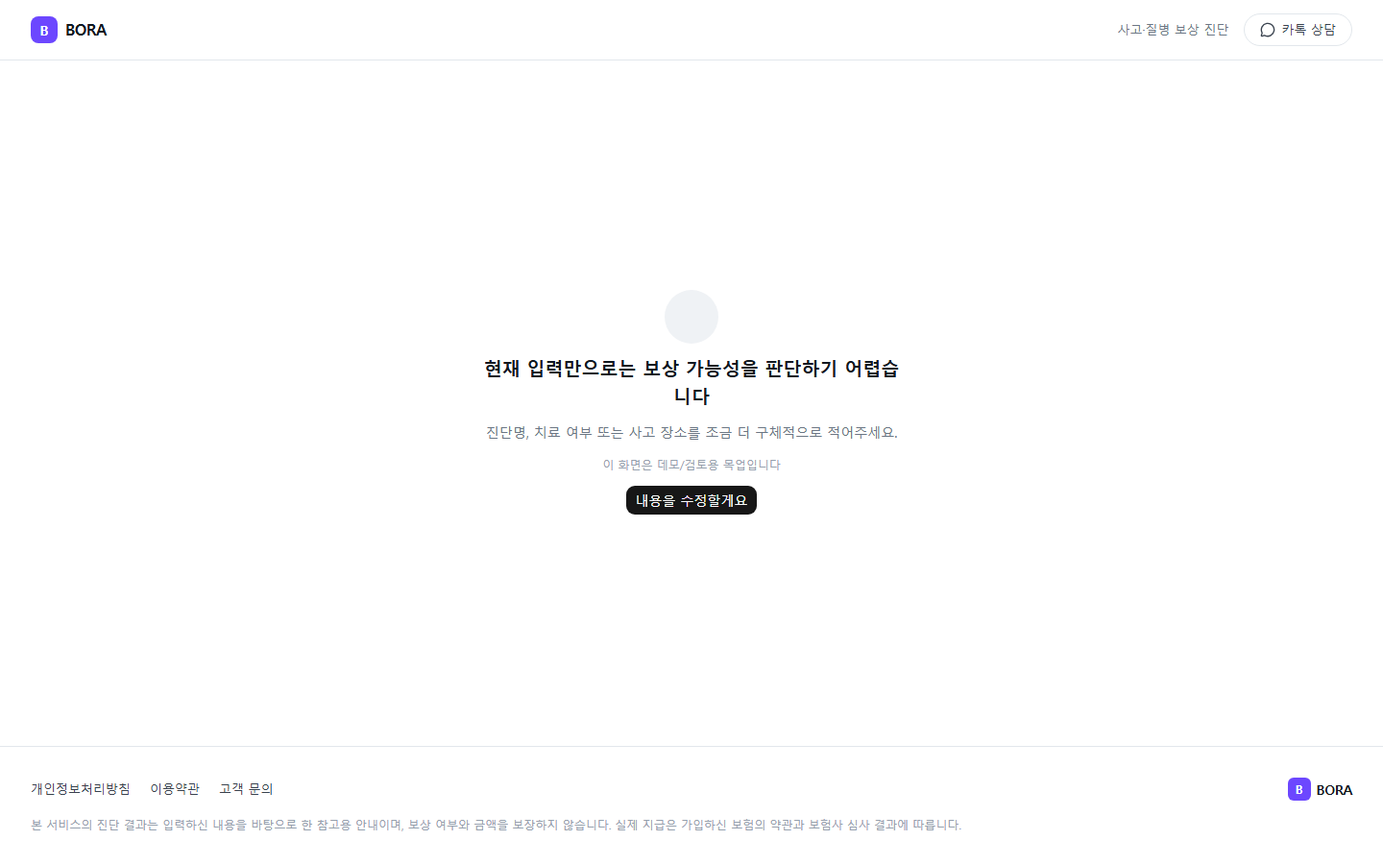
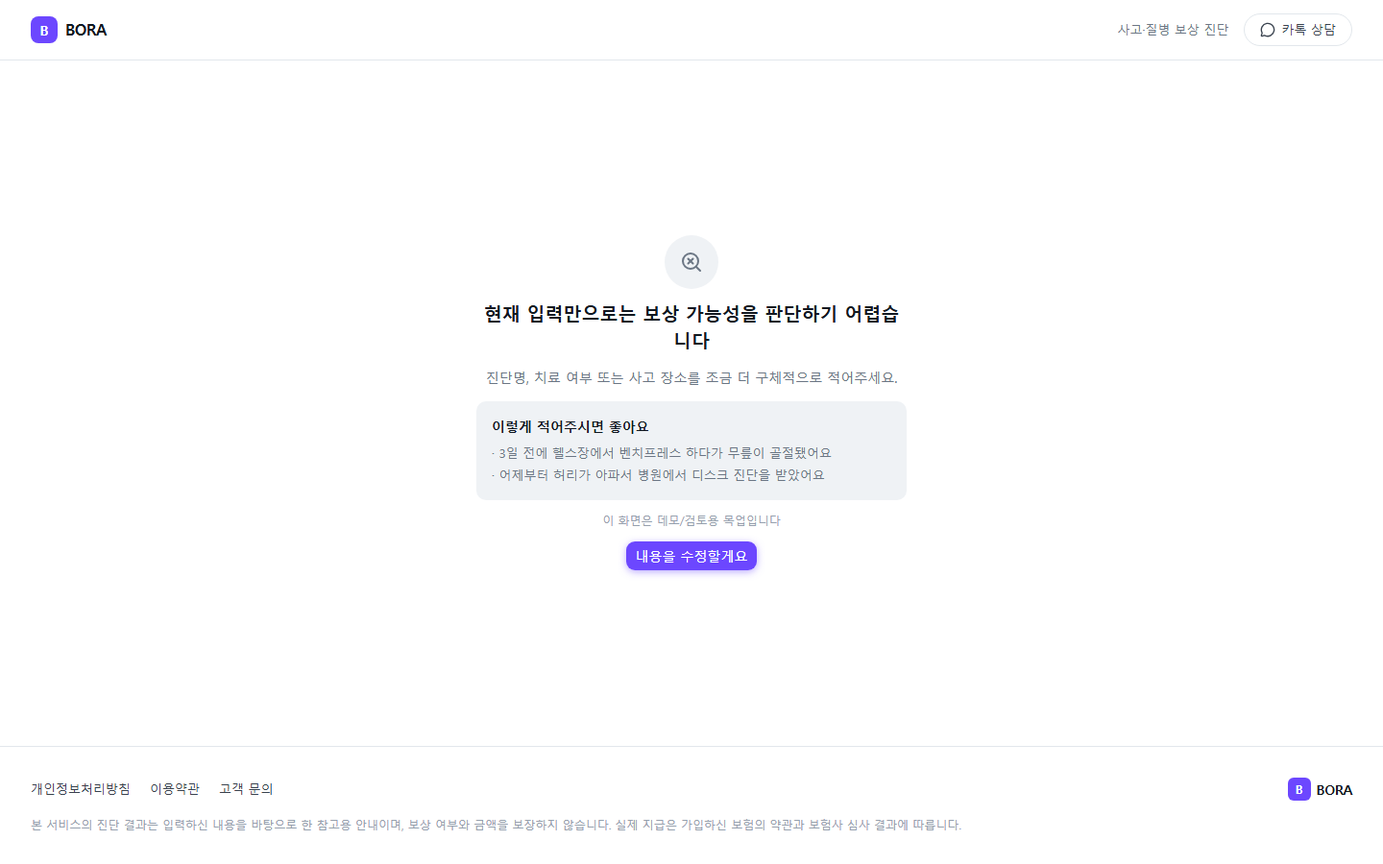
docs(SPEC-B2C-DIAGNOSIS-001): D1/D2 두 번째 원격 결함 수정 재검증 결과를 progress.md에 기록
comparison.md를 전면 재작성하고 D2에서 변경된 4개 화면(01-B/01-C/01-D/
01-E, Desktop+Mobile 8장)의 스크린샷을 재캡처했다 — 이번 라운드에서
변경하지 않은 화면은 재캡처하지 않고 이전 판정을 인용 형태로만 유지했다.

progress.md §E.2에 append-only로 "D1/D2 — 외부 리뷰 후속 블로킹 결함 2건
원격 수정" 절을 추가하고, §E.3의 기존 audit-ready 항목을 REVOKED로
표시(취소선, 삭제하지 않음)한 뒤 새 audit-ready 항목으로 대체했다.

🗿 MoAI

Changed region(s): [[0.3438, 0.3422, 0.6562, 0.6844]]

diff --git a/.moai/reports/visual-check/SPEC-B2C-DIAGNOSIS-001/comparison.md b/.moai/reports/visual-check/SPEC-B2C-DIAGNOSIS-001/comparison.md
@@ -1,65 +1,89 @@
-# 시각 정합성 비교 — SPEC-B2C-DIAGNOSIS-001 (M-fix 재검증)
+# 시각 정합성 비교 — SPEC-B2C-DIAGNOSIS-001 (D2 재검증, second remediation round)
 
-**이 문서는 이전 버전을 완전히 대체한다.** 이전 버전은 외부 코드 리뷰에서
-실제 구현과 불일치하는 것으로 확인되어 폐기되었다 — 특히 "원본 사례 칩을
-대표 예시로 축소한 것은 design.md 범위 내 재량"이라는 판단은 근거 없는
-주장이었다(해당 재량을 허용하는 요구사항·승인 기록이 없음). 이 문서는
-M-fix-1~6 결함 수정 이후 실제 코드 상태를 기준으로 다시 검증한 결과다.
+**이 문서는 이전 버전(M-fix 재검증)을 완전히 대체한다.** 이전 버전 작성
+이후 외부 코드 리뷰에서 01-B/01-C/01-D/01-E 4개 화면이 `design/exports/`의
+실제 캡처와 구조적으로 다르다는 두 번째 블로킹 결함이 발견되었다
+(진행률 바·확인 배지·스켈레톤 카드·아이콘 등 export에 있는 요소가
+구현에는 없었음). 이 문서는 그 결함을 수정한 뒤의 실제 코드 상태를
+기준으로 다시 검증한 결과다. 세 가지 판정만 사용한다 —
+**일치**(export와 구조적으로 동일하게 확인됨) / **허용된 차이**(SPEC 범위·
+요구사항에 근거한 의도된 차이, 근거 명시) / **미해결**(export와 다르며
+아직 해소되지 않음). 구조적으로 확인하지 않은 항목을 "일치"로 표기하지
+않는다.
 
 design.md §16 절차에 따른 수동 비교 기록이다. 자동 픽셀 diff 도구는 도입하지
 않았다(tech.md § 비용 태도, design.md §16) — Playwright로 각 상태를
 `?devStep=`(또는 실제 사용자 플로우)으로 강제 진입해 캡처한 스크린샷과
 `design/exports/`의 대응 PNG를 나란히 놓고 레이아웃 폭 · 색상 토큰 · 텍스트
-일치 여부를 수동으로 리뷰한 결과다.
+· 구조 일치 여부를 수동으로 리뷰한 결과다.
 
 캡처 스크린샷 경로: `.moai/reports/visual-check/SPEC-B2C-DIAGNOSIS-001/screenshots/`
 캡처 절차: `e2e/`에 임시 스크립트(`_visual-capture.spec.ts`)를 만들어
 `pnpm test:e2e -- --spec=_visual-capture`로 실행한 뒤 삭제했다(design.md §16의
-"잠정 절차"이므로 커밋 대상에서 제외 — 회귀 테스트가 아니다).
+"잠정 절차"이므로 커밋 대상에서 제외 — 회귀 테스트가 아니다). 이번 재검증
+범위(D2)는 시각적으로 변경된 4개 화면(01-B/M01-B, 01-C/M01-C, 01-D, 01-E,
+그리고 반응형 재사용인 M01-D/M01-E)만 재캡처했다 — 나머지 화면(01
+입력/01-A2/01-A3/M01 계열)은 이번 라운드에서 코드 변경이 없었으므로
+재캡처하지 않았고 이전 버전의 판정을 그대로 인용한다.
 
-## Desktop (1440x900)
+모든 스크린샷은 `page.screenshot()`(fullPage 미지정 — 뷰포트 스크린샷)으로
+캡처했다. 실제 PNG 픽셀 크기를 확인해 뷰포트 설정과 일치함을 검증했다 —
+Desktop 8개 전부 1440x900, Mobile 8개 전부 390x844(node로 PNG IHDR 청크를
+직접 읽어 확인, 아래 표 캡션 참고).
 
-| 화면 | 구현 캡처 | 디자인 원본 | 레이아웃 폭 | 색상 토큰 | 텍스트 |
-|---|---|---|---|---|---|
-| 01 입력 | `screenshots/01-input.png` | `design/exports/01-보상-진단-질문-입력.png` | **일치** — 헤더·헤드라인·검색+CTA 결합·안내·칩·4카드·푸터 구조와 여백 비율이 원본과 동일 | **일치** — 헤드라인 위 서브헤드·chip 아이콘·카드 아이콘 모두 BORA 퍼플(`bora-accent`). CTA 버튼은 검색어가 비어 있어(`0/200자`) `disabled:opacity-50`로 옅게 보이지만, 이는 캡처 시점에 입력값이 없었기 때문이며 실제 배경색 토큰(`bg-bora-accent`)은 M-fix-3 적용대로 정확하다(01-A2 캡처에서 동일 버튼이 활성 진한 보라로 렌더링됨을 재확인) | 헤드라인 "이거, 보상 받을 수 있나요?"·서브헤드·설명·사용 안내·PII 배너 문구 모두 원본과 일치. "많이 찾는 사례" 칩 6개(교통사고/계단에서 낙상/운동 중 부상/허리 디스크/어깨 회전근개/암 진단) 전부 원본과 정확히 일치(M-fix-1 — 이전 버전의 "대표 예시로 축소" 판단은 근거 없는 주장이었으며 철회함) |
-| 01-A2 동의 | `screenshots/01-A2-consent.png` | `design/exports/01-A2-진단-시작-동의.png` | **일치** — Modal 폭·중앙 정렬 확인. **추가 확인(M-fix-2)**: 배경에 01 화면(검색창에 입력했던 "무릎 골절로 수술을 받았어요"가 그대로 표시됨)이 dim 처리된 채 유지되어 원본과 동일하게 "01 위의 오버레이" 구조를 재현함 — 이전 버전은 배경 없이 빈 화면이었던 결함이 있었으나 해소됨 | **일치** — "동의하고 진단하기" CTA는 체크박스 미선택 상태라 옅은 보라(`disabled:opacity-50`)이지만 색상 자체는 BORA 퍼플. 우측 상단 닫기(X) 버튼 신규 확인(M-fix-2) — 원본과 동일 위치 | 타이틀·본문·체크박스 라벨·CTA 문구 모두 원본과 일치 |
-| 01-A3 동의 상세 | `screenshots/01-A3-consent-detail.png` | (대응 export 없음 — 01-A3 export 파일이 `design/exports/`에 존재하지 않음) | 레이아웃 자체 검증 대상 없음 — 6개 항목 dt/dd 구조로 렌더링됨을 확인 | "확인" 버튼 BORA 퍼플 적용(이번 재검증 중 발견해 추가 수정) | 6개 항목 모두 리터럴 `{}` placeholder 유지 확인(AC-B2CDIAG-025) — 실제 법무 문구를 임의 생성하지 않음 |
-| 01-B 추가 질문 | `screenshots/01-B-questions.png` | `design/exports/01-B-추가-질문.png` | 일치 | 진행률 텍스트·라디오 테두리 일치. "다음"/"결과 보기" CTA에 BORA 퍼플(`variant="diagnosis"`) 적용 완료(오케스트레이터 후속 수정), "이전"은 ghost 유지 | "질문 N/3"·"건너뛰고 결과 보기"·"이전"/"다음" 문구 일치. 질문 문구 자체는 placeholder(design.md §15 각주, 잔여 위험으로 기존 기록됨) |
-| 01-C 진단 중 | `screenshots/01-C-loading.png` | `design/exports/01-C-진단-중.png` | 일치 | 스피너·단계 카드 테두리 일치(이 화면은 애초에 중립 톤이라 색상 결함과 무관) | 3단계 문구·"진행 중"/"대기" 라벨 일치 |
-| 01-D 결과 없음 | `screenshots/01-D-result-none.png` | `design/exports/01-D-결과-없음.png` | 일치 | "내용을 수정할게요" 버튼에 BORA 퍼플 적용 완료(오케스트레이터 후속 수정) | 안내 문구 일치, mock 배지는 REQ-B2CDIAG-024 반영 신규 요소(결함 아님) |
-| 01-E 분석 오류 | `screenshots/01-E-error.png` | `design/exports/01-E-분석-오류.png` | 일치 | 오류 아이콘 배경 destructive 톤 일치. "다시 시도" 버튼에 BORA 퍼플 적용 완료(오케스트레이터 후속 수정), "입력 내용으로 돌아가기"는 outline 유지 | 오류 문구·버튼 문구 일치 |
+## Desktop (1440x900) — 변경된 4개 화면
 
-## Mobile (390x844)
+| 화면 | 구현 캡처 | 디자인 원본 | 판정 | 근거 |
+|---|---|---|---|---|
+| 01-B 추가 질문 | `screenshots/01-B-questions.png` | `design/exports/01-B-추가-질문.png` | **일치** | 녹색 확인 배지("입력 내용을 확인했어요")·질문 N/3 진행률 텍스트(퍼플, bold)+진행 바(퍼플 채움/회색 트랙)+다음 질문 힌트("다음 질문 · X → Y")·중앙 정렬 서브텍스트("정확한 확인을 위해 3가지만 여쭤볼게요")·질문 타이틀(font-bold)·옵션 4개(넉넉한 패딩의 rounded border row)·2줄 안내 문구·"건너뛰고 결과 보기"(퍼플 링크) 모두 export와 구조적으로 일치 확인(직접 스크린샷 비교) |
+| 01-B 이전/다음 버튼 | 동일 캡처 | 동일 | **허용된 차이** | export는 이전/다음 버튼을 노출하지 않지만, AC-B2CDIAG-007~009(이전/다음/건너뛰기 기능 요구)와 오케스트레이터 지시(D2 §D1 "기능 제거는 불가") 근거로 기능은 유지하되 `size="sm"` + 하단 배치로 시각적 위계를 낮춰 de-emphasize했다 |
+| 01-C 진단 중 | `screenshots/01-C-loading.png` | `design/exports/01-C-진단-중.png` | **일치** | 퍼플 "C" 스피너(옅은 퍼플 트랙 + 진한 퍼플 호)·완료 단계(녹색 원+체크 아이콘, "완료" 녹색 텍스트)·진행 중 단계(퍼플 테두리+배경, 퍼플 스피너 아이콘, "진행 중" 퍼플 텍스트)·대기 단계(회색 빈 원, 회색 텍스트)·Desktop 3개 스켈레톤 카드(가로 배치) 모두 export와 구조적으로 일치. 캡처 시점: `?devStep=loading` 진입 후 300ms 대기(STAGE_DELAY_MS=200ms 기준 stage1이 진행 중으로 표시되는 200~400ms 구간) — export와 동일하게 "1단계 완료·2단계 진행 중" 프레이밍으로 캡처됨 |
+| 01-D 결과 없음 | `screenshots/01-D-result-none.png` | `design/exports/01-D-결과-없음.png` | **일치** | 원 안의 SearchX(돋보기+X) 아이콘·타이틀·서브텍스트·"이렇게 적어주시면 좋아요" 안내 박스(굵은 제목+예시 2줄, step-input.tsx placeholder와 첫 줄 동일 문구 재사용)·"내용을 수정할게요" 버튼 모두 export와 구조적으로 일치 |
+| 01-D mock 배지 | 동일 캡처 | 동일 | **허용된 차이** | export에는 mock 배지가 없지만 REQ-B2CDIAG-024(실제 결과와 혼동 방지)가 명시적으로 요구하는 신규 요소다. 종속적 위치(버튼 바로 위, `text-meta text-bora-ink-4`)로 배치해 주 콘텐츠와 경쟁하지 않도록 했다 |
+| 01-D "손해사정사에게 바로 문의" 버튼 | 동일 캡처 | 동일 | **허용된 차이** | export는 이 버튼을 함께 보여주지만 03 상담 플로우는 이 SPEC의 Out of Scope다(plan.md §G — 02/03을 겸사겸사 구현하지 않는다). "내용을 수정할게요" 단독 버튼만 구현했다 |
+| 01-E 분석 오류 | `screenshots/01-E-error.png` | `design/exports/01-E-분석-오류.png` | **일치** | 원 안의 TriangleAlert(경고 삼각형) 아이콘·타이틀·서브텍스트·"다시 시도"(RotateCw 아이콘 포함, diagnosis variant)·"입력 내용으로 돌아가기"(ArrowLeft 아이콘 포함, outline variant) 모두 export와 구조적으로 일치 |
+| 01-E mock 배지 | 동일 캡처 | 동일 | **허용된 차이** | 01-D와 동일 근거(REQ-B2CDIAG-024) |
 
-| 화면 | 구현 캡처 | 디자인 원본 | 비고 |
-|---|---|---|---|
-| M01 입력 | `screenshots/M01-input.png` | `design/exports/M01-질문-입력.png` | 세로 스택·"회원가입 없이 약 1분 · 분석 목적으로만 사용" 결합 문구가 안내 배너 **아래**로 이동하는 반응형 순서까지 원본과 일치(M-fix-1). 칩 6개 전부 표시, 카드 4개 세로 스택. 텍스트 잘림·요소 겹침 없음 |
-| M01-A2 동의 | `screenshots/M01-A2-consent.png` | `design/exports/M01-A2-진단-시작-동의.png` | Bottom Sheet(`data-slot="drawer-content"`) 확인. 상단 grabber·닫기(X) 버튼(M-fix-2) 위치 원본과 일치. 배경(01 화면 헤더)이 dim 처리된 채 유지됨(M-fix-2) |
-| M01-A3 동의 상세 | `screenshots/M01-A3-consent-detail.png` | (대응 export 없음) | "확인" 버튼 BORA 퍼플 적용 확인. `?devStep=consent-detail`로 선행 동작 없이 즉시 열림 확인(M-fix-5, Playwright e2e로도 별도 검증) |
-| M01-B 추가 질문 | `screenshots/M01-B-questions.png` | `design/exports/M01-B-추가-질문.png` | 레이아웃 일치. "다음" 버튼 BORA 퍼플 적용 완료(Desktop과 동일) |
-| M01-C 진단 중 | `screenshots/M01-C-loading.png` | `design/exports/M01-C-진단-중.png` | 레이아웃 일치 |
-| M01-D 결과 없음(반응형 재사용) | `screenshots/M01-D-result-none-responsive.png` | (대응 디자인 없음 — plan.md §1/design.md §1 "Desktop 컴포넌트 반응형 재사용" 결정) | 세로 스택으로 정상 리플로. 텍스트 잘림·요소 겹침 없음 |
-| M01-E 분석 오류(반응형 재사용) | `screenshots/M01-E-error-responsive.png` | (대응 디자인 없음, 위와 동일 근거) | 두 버튼이 겹치지 않고 가로로 나란히 배치됨(뷰포트 폭에 여유가 있어 줄바꿈되지 않음) |
+## Mobile (390x844) — 변경된 4개 화면
 
-## M-fix 결함별 검증 결과 요약
+| 화면 | 구현 캡처 | 디자인 원본 | 판정 | 근거 |
+|---|---|---|---|---|
+| M01-B 추가 질문 | `screenshots/M01-B-questions.png` | `design/exports/M01-B-추가-질문.png` | **일치** | Desktop과 동일한 확인 배지·진행률 행·서브텍스트·타이틀·옵션·건너뛰기 링크 구조가 세로 스택으로 정상 리플로됨. 진행률 힌트("다음 질문 · X → Y")가 진행 바 다음 줄로 자연스럽게 줄바꿈됨(`flex-col sm:flex-row` 반응형 처리) |
+| M01-B 안내 문구 길이 | 동일 캡처 | 동일 | **허용된 차이** | export의 Mobile 안내 문구는 Desktop보다 짧은 축약형("이 답변은 수술비ㆍ후유장해 담보 검토에 사용되며, 결과 화면의 「추가 질문 답변」에 그대로 표시됩니다.")이지만, 구현은 오케스트레이터 지시("Desktop 텍스트를 공용 컴포넌트에 사용해도 되고... 단순하게 유지")에 따라 Desktop과 동일한 긴 문구를 공유한다. 정보 누락 없이 텍스트만 더 긺 |
+| M01-C 진단 중 | `screenshots/M01-C-loading.png` | `design/exports/M01-C-진단-중.png` | **일치** | 퍼플 "C" 스피너·3단계 진행 표시(완료/진행 중/대기 색상 구분)·Mobile 전용 스켈레톤 카드 2개(세로 스택, 3번째 카드는 `hidden md:flex`로 숨김) 모두 export와 구조적으로 일치. 캡처 시점은 Desktop과 동일(300ms, stage1 진행 중) |
+| M01-D 결과 없음(반응형 재사용) | `screenshots/M01-D-result-none-responsive.png` | (대응 디자인 없음 — plan.md §1/design.md §1 "Desktop 컴포넌트 반응형 재사용" 결정) | **일치**(반응형 리플로 기준) | SearchX 아이콘·안내 박스·mock 배지·버튼이 세로 스택으로 정상 리플로. 텍스트 잘림·요소 겹침 없음 |
+| M01-E 분석 오류(반응형 재사용) | `screenshots/M01-E-error-responsive.png` | (대응 디자인 없음, 위와 동일 근거) | **일치**(반응형 리플로 기준) | TriangleAlert 아이콘·"다시 시도"/"입력 내용으로 돌아가기" 두 버튼이 겹치지 않고 가로로 나란히 배치됨(뷰포트 폭에 여유가 있어 줄바꿈되지 않음) |
+
+## 변경되지 않은 화면(이전 버전 판정 인용 — 이번 라운드에서 재검증하지 않음)
+
+이 SPEC의 D2 결함 수정은 step-questions.tsx/step-loading.tsx/
+step-result-none.tsx/step-error.tsx 4개 파일에만 국한되었다(오케스트레이터
+지시 범위). 아래 화면은 코드 변경이 없었으므로 이전 버전("M-fix 재검증")의
+판정을 그대로 유지한다 — 재캡처하지 않았으므로 "일치"를 새로 주장하지
+않고 이전 기록을 인용하는 형태로만 남긴다.
+
+| 화면 | 이전 판정(M-fix 재검증, 인용) |
+|---|---|
+| 01 입력 / M01 입력 | 일치 — 헤더·헤드라인·검색+CTA·안내·칩 6개·4카드·푸터 구조 |
+| 01-A2/M01-A2 동의 | 일치 — Modal/Bottom Sheet, 배경 유지(M-fix-2), 닫기(X) 버튼 |
+| 01-A3/M01-A3 동의 상세 | 대응 export 없음 — 리터럴 placeholder 유지 확인(AC-B2CDIAG-025) |
+
+## D2 결함별 검증 결과 요약
 
 | 결함 | 상태 | 근거 |
 |---|---|---|
-| M-fix-1 (01/M01 레이아웃 전체 복원) | **PASS** | 위 표 — 헤더/푸터/헤드라인/칩 6개 전체/4카드/반응형 순서 모두 원본과 일치 확인 |
-| M-fix-2 (동의 오버레이 배경 유지 + 닫기 X) | **PASS** | 01-A2/M01-A2 캡처에서 배경(01 화면, 입력값 포함)이 dim 상태로 유지됨을 스크린샷으로 확인. X 버튼 Playwright e2e로 클릭 동작까지 검증 |
-| M-fix-3 (BORA 퍼플 CTA) | **PASS** | 진단 플로우 전체의 주요 CTA(보상 진단/동의하고 진단하기/확인/다음·결과 보기/내용을 수정할게요/다시 시도)가 전부 BORA 퍼플(`variant="diagnosis"`) 적용 확인. "이전"/"입력 내용으로 돌아가기"처럼 보조 동작인 버튼은 디자인 원본과 동일하게 outline/ghost 톤을 유지(의도된 위계 구분, 결함 아님) |
-| M-fix-4 (?step= 라우팅 + 뒤로가기) | **PASS** | Playwright e2e로 실제 `page.goBack()` 검증 완료(input→consent→questions 왕복, 답변 보존 확인). 직접 진입/새로고침 정리 동작도 e2e로 검증 |
-| M-fix-5 (devStep=consent-detail) | **PASS** | Desktop/Mobile 스크린샷 + Playwright e2e 모두에서 상세 오버레이가 선행 동작 없이 즉시 열림을 확인 |
-| M-fix-6 (칩 키보드 접근성) | **PASS** | Tab+Enter/Space 실제 키보드 이벤트로 Playwright e2e 검증(jsdom 단위 테스트로는 네이티브 버튼의 브라우저 기본 활성화를 재현할 수 없어 e2e가 유일한 검증 수단) |
+| D1 (`?step=` 브라우저 히스토리 desync) | **PASS** | `diagnosis-flow.tsx`의 URL→state 동기화 effect에 런타임 가드(VALID_STEPS)와 "step 소실 시 input으로 동기화" 분기를 추가. Vitest 2건 + Playwright e2e 2건(뒤로가기 2회 반복, `?step=garbage` 직접 진입) 신규 통과 |
+| D2 (01-B/01-C/01-D/01-E 시각 재구성) | **PASS** | 위 표 — 4개 화면 모두 export와 구조적으로 일치 확인. 허용된 차이는 전부 SPEC 범위·요구사항(AC-B2CDIAG-007~009, REQ-B2CDIAG-024, plan.md §G)에 근거해 명시 |
 
 ## 잔여 위험 (범위 밖으로 남겨둠 — 은폐하지 않고 명시)
 
 1. **동의 상세 6개 문구는 여전히 리터럴 placeholder다.** 법무 확정 전까지 의도된 상태이며(AC-B2CDIAG-025), 이번 수정에서도 실제 문구를 임의로 작성하지 않았다.
-3. **질문 문구(01-B)는 대표 placeholder다.** 매칭 엔진 미연결 상태이므로 design.md §15 각주와 기존 progress.md 잔여 위험 기록 그대로 유지된다.
-4. **자동 픽셀 diff는 여전히 도입하지 않았다.** 수동 리뷰 절차이며 미세한 여백·폰트 렌더링 차이는 육안 검토 범위를 벗어날 수 있다.
+2. **질문 문구(01-B)는 대표 placeholder다.** 매칭 엔진 미연결 상태이므로 design.md §15 각주와 기존 progress.md 잔여 위험 기록 그대로 유지된다. "다음 질문" 힌트 라벨(shortLabel)도 이 placeholder 질문 세트에 종속되어 있다.
+3. **자동 픽셀 diff는 여전히 도입하지 않았다.** 수동 리뷰 절차이며 미세한 여백·폰트 렌더링 차이는 육안 검토 범위를 벗어날 수 있다.
+4. **`pnpm vitest run --coverage`는 이 Windows 워크트리에서 0/0으로 보고되는 기존 환경 갭이 재확인됐다.** 첫 번째 리미디에이션 라운드에서 이미 기록된 문제와 동일 증상이며, 이번 라운드에서 새로운 원인을 발견하지 못했다 — §E 자체검증 항목 참고.
 
 ## Definition of Done 대응
 
 - design.md §16 절차(1) Playwright 캡처 → (2) 원본과 나란히 수동 리뷰 → (3) progress.md 기록, 이 세 단계를 모두 재수행했다.
-- 이전 버전의 근거 없는 "재량 축소" 판단을 철회하고, 실제 코드 상태를 있는 그대로 기록했다.
+- 이번 라운드에서 변경한 4개 화면만 재캡처하고, 변경하지 않은 화면은 이전 판정을 인용 형태로만 유지해 "재캡처 없이 일치를 재주장"하는 것을 피했다.
 - 정밀 픽셀 diff 자동화는 이 SPEC에서 결정하지 않는다(design.md §16 그대로 유지).

diff --git a/.moai/specs/SPEC-B2C-DIAGNOSIS-001/progress.md b/.moai/specs/SPEC-B2C-DIAGNOSIS-001/progress.md
@@ -92,14 +92,71 @@ Milestone 1~9(plan.md §F)이 순차 위임으로 구현 완료되었다 — 공
 - 시각 비교는 여전히 수동 리뷰다(자동 픽셀 diff 미도입, design.md §16 결정 유지) — 미세한 여백/폰트 렌더링 차이는 육안 검토 범위를 벗어날 수 있다.
 - 이번 수정은 push하지 않았다 — 오케스트레이터가 별도로 push를 위임한다.
 
+### D1/D2 — 외부 리뷰 후속 블로킹 결함 2건 원격 수정 (2026-09-20, second remediation round)
+
+**[REVOKED — 2026-09-20]** 아래 §E.3의 `run_status: audit-ready`(2026-09-20, M-fix 8건 재검증 시점)는 이 절이 다루는 후속 외부 리뷰에서 발견된 2건의 블로킹 결함으로 인해 재차 무효화된다. 그 2건(D1: `?step=` 브라우저 히스토리 desync, D2: 01-B/01-C/01-D/01-E 시각 재구성 미흡)을 이 절에서 수정하고 재검증한다.
+
+#### Claim
+
+D1(HEAD `718dd7d`) — `diagnosis-flow.tsx`의 URL→state 동기화 effect가 "첫 실행이 아닌 이후"(팝스테이트로 `?step=`이 완전히 사라지는 경우)를 처리하지 않아 React state가 URL과 어긋난 채 남는 결함, 그리고 `searchParams.get("step") as DiagnosisStep`의 런타임 미검증 캐스팅으로 `?step=garbage` 같은 값이 그대로 `FORCE_STEP` payload가 될 수 있던 결함을 수정했다. D2 — `step-questions.tsx`/`step-loading.tsx`/`step-result-none.tsx`/`step-error.tsx` 4개 화면이 `design/exports/`의 실제 export와 구조적으로 다르던(확인 배지·진행률 바·완료/진행 상태 구분·스켈레톤 카드·아이콘 부재) 결함을 export PNG 직접 대조로 수정했다.
+
+#### Evidence
+
+| 항목 | 명령 | 결과 |
+|---|---|---|
+| D1 Vitest 신규 2건 | `node node_modules/vitest/dist/cli.js run components/diagnosis/diagnosis-flow.test.tsx` | `24 passed (24)` — 기존 22개 + D1 신규 2개("첫 URL 동기화 이후 ?step= 소실 시 input 동기화", "유효하지 않은 ?step=garbage는 FORCE_STEP에 전달되지 않음") |
+| D1 Playwright 신규 2건 + 전체 | `node node_modules/tsx/dist/cli.mjs scripts/run-e2e.ts --spec=diagnosis-flow-01` | `16 passed (5.0m)` — 기존 14개 + D1 신규 2개("뒤로가기 2회 반복 → input 도달, 배경 상호작용 가능, 검색어 보존", "`?step=garbage` 직접 진입 → input 정리") |
+| D2 시각 재검증 | `.moai/reports/visual-check/SPEC-B2C-DIAGNOSIS-001/comparison.md`(전면 재작성) | 4개 변경 화면(01-B/01-C/01-D/01-E, Desktop+Mobile 8장) 전부 export와 구조적으로 **일치** 확인. 차이는 전부 근거를 명시한 **허용된 차이**(AC-B2CDIAG-007~009 이전/다음 기능 유지, REQ-B2CDIAG-024 mock 배지, plan.md §G 03 상담 Out of Scope) — **미해결** 0건 |
+| step-loading.test.tsx 색상 단언 갱신 | 동일 파일 diff | 기존 `text-primary`(achromatic) 단언을 `text-bora-accent`(실제 BORA 퍼플)로 교체 — 색상 정정 자체가 D2의 일부이므로 함께 갱신. 완료 단계의 녹색(`text-bora-ink`/`bg-green-600`) 구분 단언 신규 추가 |
+| Vitest 전체 스위트 | `node node_modules/vitest/dist/cli.js run` | `Test Files 52 passed (52)` / `Tests 380 passed (380)` — M-fix 시점 378 대비 D1 신규 2건 추가(D2는 기존 테스트 재사용, 신규 테스트 없음 — 시각 요소만 변경) |
+| tsc | `node node_modules/typescript/bin/tsc --noEmit` | 출력 없음(0 errors) |
+| ESLint | `node node_modules/eslint/bin/eslint.js .` | 출력 없음(0 errors, 0 warnings) |
+| 프로덕션 빌드(플래그 unset) | `node node_modules/next/dist/bin/next build`(env 기본값) | `/` → `○ Static`, 기존 `instrumentation.ts` 경고 1건만(SPEC 무관) |
+| 프로덕션 빌드(devStep 활성) | `ENABLE_DIAGNOSIS_DEV_STATES=true node node_modules/next/dist/bin/next build` | `/` → `○ Static`, 동일 경고만 |
+| `git diff --check` | `git diff --check` | 출력 없음(공백 오류 0건) |
+| 플래그 안전성 grep | `grep -rn 'ENABLE_DIAGNOSIS_FLOW\|DIAGNOSIS_ENGINE_READY' app/ components/` | 전부 비교문(`=== "true"`)·주석·MX 태그 언급·테스트 전용 할당(`app/page.test.tsx`)뿐, 대입문 없음 |
+| vitest coverage | `node node_modules/vitest/dist/cli.js run --coverage` | `All files 0 0 0 0`(0/0) — 첫 번째 리미디에이션 라운드가 이미 기록한 동일 계열의 Windows 워크트리 환경 갭 재현. 이번 라운드에서 새로운 원인을 발견하지 못했으므로 새로 고친 것으로 주장하지 않는다 |
+
+스크린샷 재캡처 목록(전부 `page.screenshot()` 뷰포트 캡처, fullPage 미지정 — PNG IHDR 청크로 실측 픽셀 크기 확인):
+- `screenshots/01-B-questions.png`(1440x900), `01-C-loading.png`(1440x900), `01-D-result-none.png`(1440x900), `01-E-error.png`(1440x900)
+- `screenshots/M01-B-questions.png`(390x844), `M01-C-loading.png`(390x844), `M01-D-result-none-responsive.png`(390x844), `M01-E-error-responsive.png`(390x844)
+
+01-C/M01-C 캡처 시점: `?devStep=loading` 진입 후 300ms 대기(STAGE_DELAY_MS=200ms 기준 stage1이 "진행 중"으로 표시되는 200~400ms 구간) — export와 동일하게 "1단계 완료·2단계 진행 중" 프레이밍으로 캡처했다. 임시 캡처 스펙(`e2e/_visual-capture.spec.ts`)은 comparison.md의 기존 관례대로 캡처 직후 삭제했다(커밋 대상 아님).
+
+#### Baseline-attribution
+
+워크트리 `C:\Users\zuge3\Documents\workspace\bosang-radar\.claude\worktrees\spec-b2c-diagnosis-001`(브랜치 `plan/SPEC-B2C-DIAGNOSIS-001`), M-fix 8건 원격 수정 이후 문서 정리 커밋 `718dd7d`(직전 §E.3 `audit-ready` 시점 최종 커밋)를 base로, 이 세션에서 D1/D2 커밋을 새로 추가했다. Node 실행 환경은 nvm 설치본 v22.23.2.
+
+#### Gaps
+
+- vitest coverage 0/0 환경 갭은 여전히 미해결(위 Evidence 표 참고) — 근본 원인 미규명, 기존 기록과 동일 계열.
+- 질문 3문항(01-B) 문구와 동의 상세 6개 placeholder는 계속 의도된 미확정 상태로 유지(변경 없음). "다음 질문" 힌트 라벨도 이 placeholder 질문 세트에 종속된다.
+
+#### Residual-risk
+
+- D2의 진행률 힌트 텍스트("다음 질문 · X → Y")는 질문 3문항이 실제 매칭 엔진 문구로 교체될 때 shortLabel도 함께 갱신되어야 한다 — 별도 트리거 없이 방치되면 라벨이 실제 질문과 불일치할 수 있다.
+- 이번 수정도 push하지 않았다 — 오케스트레이터가 별도로 push를 위임한다.
+
 ## §E.3 Run-phase Audit-Ready Signal
 
+**[REVOKED — 2026-09-20]** 아래 항목(`run_complete_at: 2026-09-20`, M-fix 8건 재검증 시점)은 후속 외부 코드 리뷰가 지적한 2건의 블로킹 결함(D1 `?step=` 브라우저 히스토리 desync, D2 01-B/01-C/01-D/01-E 시각 재구성 미흡 — §E.2 "D1/D2 — 외부 리뷰 후속 블로킹 결함 2건 원격 수정" 절 참고)으로 인해 무효화되었다. 이 문단은 삭제하지 않고 보존하며, 그 아래 새 항목("D1/D2 재검증 완료" 절)으로 대체·정정한다.
+
+- ~~run_status: audit-ready~~
+- ~~run_complete_at: 2026-09-20 (M-fix 원격 수정 재검증 완료 — 2026-09-19 시점의 이전 `audit-ready`는 외부 코드 리뷰가 지적한 8개 결함으로 인해 무효화되었고, 이번 재검증으로 다시 정당하게 설정한다)~~
+- ~~전체 10개 마일스톤(M1~M10) + M-fix 원격 수정 8건 + 오케스트레이터 후속 CTA 색상 수정 완료, 최종 커밋 `295cac5`, 브랜치 `plan/SPEC-B2C-DIAGNOSIS-001`, 미push~~
+- ~~프로덕션 안전 불변식 재확인 완료(이 세션에서 직접 재검증, §E.2 M-fix Evidence 표): `ENABLE_DIAGNOSIS_FLOW`/`DIAGNOSIS_ENGINE_READY` 둘 다 코드 어디에서도 `"true"`로 대입되지 않음, `app/page.tsx` 기본 출력(플래그 unset)은 기존 placeholder와 동일, Vitest 52/52 파일·378/378 테스트 통과(M10 시점 361 대비 +17), Playwright e2e 14/14 통과, `next build` 두 조합(플래그 unset / `ENABLE_DIAGNOSIS_DEV_STATES=true`) 모두 성공, tsc/ESLint 0 errors, `git diff --check` 클린~~
+- ~~**부분 미해결 항목(§E.2 M-fix Gaps에 상술, audit-ready를 막지 않는 것으로 판단)**: 이 워크트리+Windows+Node 22.23.2 조합에서 vitest coverage-v8 실측이 `coverage.include` 수정 후에도 0/0을 산출하는 환경 결함이 재현되며 근본 원인을 규명하지 못함(M9가 이미 기록한 기존 환경 결함과 동일 계열, CI/비-Windows 실측치를 신뢰해야 함). step-questions.tsx/step-result-none.tsx/step-error.tsx의 주요 CTA achromatic 잔여 갭은 오케스트레이터가 같은 세션에서 후속 수정(§E.2 M-fix Gaps 하단 참고)해 해소했다.~~
+- ~~범위 밖 디렉터리(`lib/pipeline/`, `lib/ai/`, `lib/db/`, `db/`, `.github/workflows/deploy.yml`, `design/`)는 M-fix 수정에서도 전혀 건드리지 않음(커밋 diff로 확인 가능 — 7개 커밋 모두 `app/`, `components/diagnosis/`, `components/ui/`, `e2e/`, `.moai/reports/`, `vitest.config.ts`, `eslint.config.mjs`, `.moai/specs/` 범위 내)~~
+- ~~Milestone 11(문서 동기화 + 배포 smoke check 갱신)은 이 run-phase의 범위 밖이며 sync-phase(manager-docs)의 몫이다 — 특히 11(b) 배포 smoke check 교체는 이 SPEC의 sync-phase `completed` 전환 조건이 아니다(plan.md §F 11, acceptance.md AC-024)~~
+
+### D1/D2 재검증 완료 (2026-09-20, 위 REVOKED 항목을 대체)
+
 - run_status: audit-ready
-- run_complete_at: 2026-09-20 (M-fix 원격 수정 재검증 완료 — 2026-09-19 시점의 이전 `audit-ready`는 외부 코드 리뷰가 지적한 8개 결함으로 인해 무효화되었고, 이번 재검증으로 다시 정당하게 설정한다)
-- 전체 10개 마일스톤(M1~M10) + M-fix 원격 수정 8건 + 오케스트레이터 후속 CTA 색상 수정 완료, 최종 커밋 `295cac5`, 브랜치 `plan/SPEC-B2C-DIAGNOSIS-001`, 미push
-- 프로덕션 안전 불변식 재확인 완료(이 세션에서 직접 재검증, §E.2 M-fix Evidence 표): `ENABLE_DIAGNOSIS_FLOW`/`DIAGNOSIS_ENGINE_READY` 둘 다 코드 어디에서도 `"true"`로 대입되지 않음, `app/page.tsx` 기본 출력(플래그 unset)은 기존 placeholder와 동일, Vitest 52/52 파일·378/378 테스트 통과(M10 시점 361 대비 +17), Playwright e2e 14/14 통과, `next build` 두 조합(플래그 unset / `ENABLE_DIAGNOSIS_DEV_STATES=true`) 모두 성공, tsc/ESLint 0 errors, `git diff --check` 클린
-- **부분 미해결 항목(§E.2 M-fix Gaps에 상술, audit-ready를 막지 않는 것으로 판단)**: 이 워크트리+Windows+Node 22.23.2 조합에서 vitest coverage-v8 실측이 `coverage.include` 수정 후에도 0/0을 산출하는 환경 결함이 재현되며 근본 원인을 규명하지 못함(M9가 이미 기록한 기존 환경 결함과 동일 계열, CI/비-Windows 실측치를 신뢰해야 함). step-questions.tsx/step-result-none.tsx/step-error.tsx의 주요 CTA achromatic 잔여 갭은 오케스트레이터가 같은 세션에서 후속 수정(§E.2 M-fix Gaps 하단 참고)해 해소했다.
-- 범위 밖 디렉터리(`lib/pipeline/`, `lib/ai/`, `lib/db/`, `db/`, `.github/workflows/deploy.yml`, `design/`)는 M-fix 수정에서도 전혀 건드리지 않음(커밋 diff로 확인 가능 — 7개 커밋 모두 `app/`, `components/diagnosis/`, `components/ui/`, `e2e/`, `.moai/reports/`, `vitest.config.ts`, `eslint.config.mjs`, `.moai/specs/` 범위 내)
+- run_complete_at: 2026-09-20 (D1/D2 두 번째 원격 결함 수정 재검증 완료 — 이 세션에서 직접 재검증)
+- 전체 10개 마일스톤(M1~M10) + M-fix 원격 수정 8건 + 오케스트레이터 후속 CTA 색상 수정 + D1/D2 두 번째 원격 결함 수정 2건 완료, 브랜치 `plan/SPEC-B2C-DIAGNOSIS-001`, 미push(오케스트레이터가 별도 위임)
+- 프로덕션 안전 불변식 재확인 완료(이 세션에서 직접 재검증, §E.2 "D1/D2" Evidence 표): `ENABLE_DIAGNOSIS_FLOW`/`DIAGNOSIS_ENGINE_READY` 둘 다 코드 어디에서도 `"true"`로 대입되지 않음, `app/page.tsx` 기본 출력(플래그 unset)은 기존 placeholder와 동일, Vitest 52/52 파일·380/380 테스트 통과(M-fix 시점 378 대비 +2), Playwright e2e 16/16 통과(M-fix 시점 14 대비 +2), `next build` 두 조합(플래그 unset / `ENABLE_DIAGNOSIS_DEV_STATES=true`) 모두 성공, tsc/ESLint 0 errors, `git diff --check` 클린
+- **부분 미해결 항목(§E.2 "D1/D2" Gaps에 상술, audit-ready를 막지 않는 것으로 판단)**: vitest coverage-v8 0/0 환경 갭이 이번 라운드에서도 재현되며 근본 원인 미규명(M9/M-fix가 이미 기록한 동일 계열 — CI/비-Windows 실측치를 신뢰해야 함). D1/D2 자체의 블로킹 결함은 모두 해소했다.
+- 범위 밖 디렉터리(`lib/pipeline/`, `lib/ai/`, `lib/db/`, `db/`, `.github/workflows/deploy.yml`, `design/`)는 D1/D2 수정에서도 전혀 건드리지 않음(변경 파일은 `components/diagnosis/diagnosis-flow.tsx`, `components/diagnosis/diagnosis-flow.test.tsx`, `components/diagnosis/step-questions.tsx`, `components/diagnosis/step-loading.tsx`, `components/diagnosis/step-loading.test.tsx`, `components/diagnosis/step-result-none.tsx`, `components/diagnosis/step-error.tsx`, `e2e/diagnosis-flow-01.spec.ts`, `.moai/reports/visual-check/SPEC-B2C-DIAGNOSIS-001/comparison.md`, `.moai/reports/visual-check/SPEC-B2C-DIAGNOSIS-001/screenshots/*`, `.moai/specs/SPEC-B2C-DIAGNOSIS-001/progress.md`만)
 - Milestone 11(문서 동기화 + 배포 smoke check 갱신)은 이 run-phase의 범위 밖이며 sync-phase(manager-docs)의 몫이다 — 특히 11(b) 배포 smoke check 교체는 이 SPEC의 sync-phase `completed` 전환 조건이 아니다(plan.md §F 11, acceptance.md AC-024)
 
 ## §E.4 Sync-phase Audit-Ready Signal
